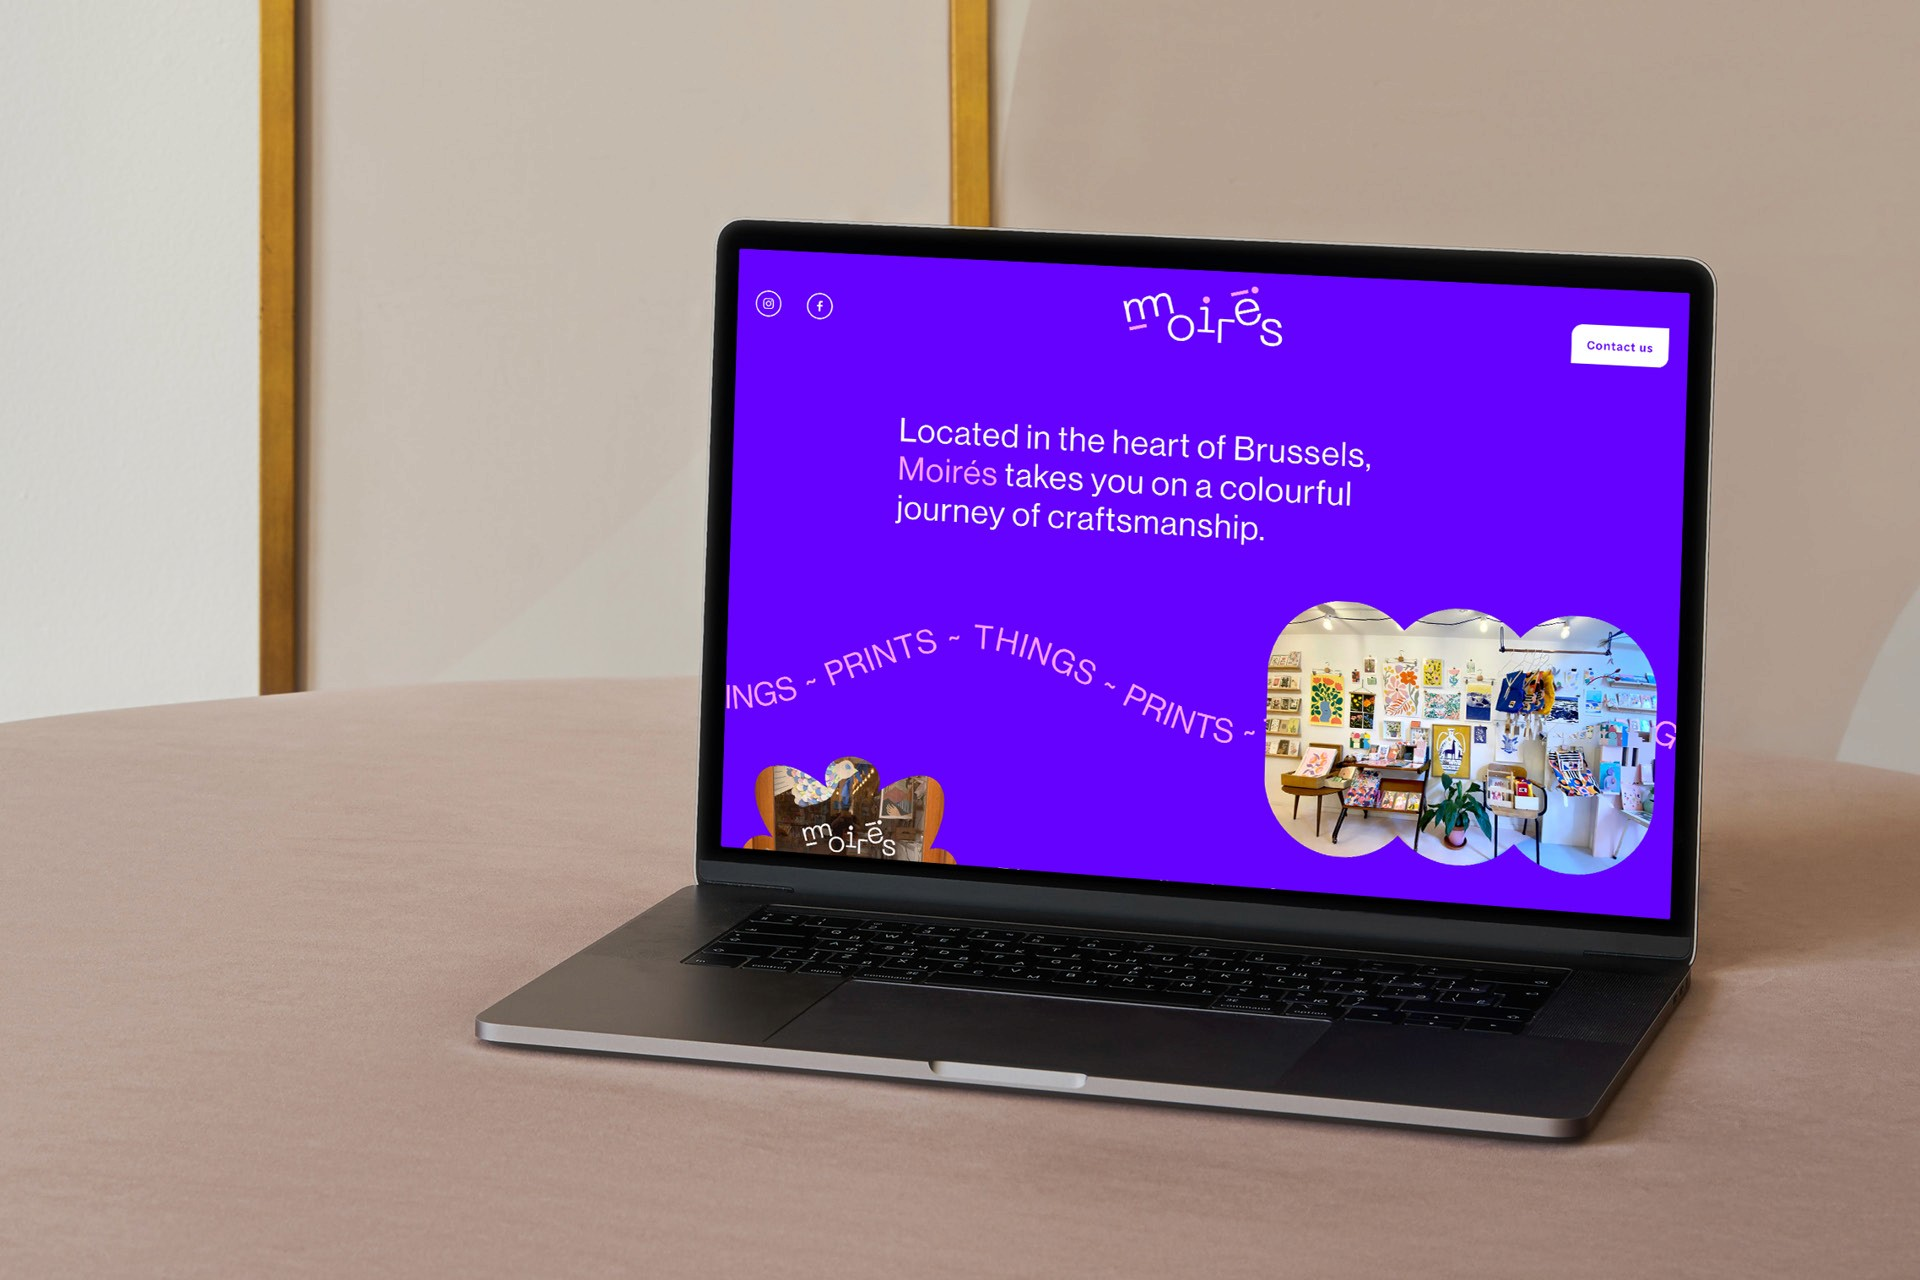
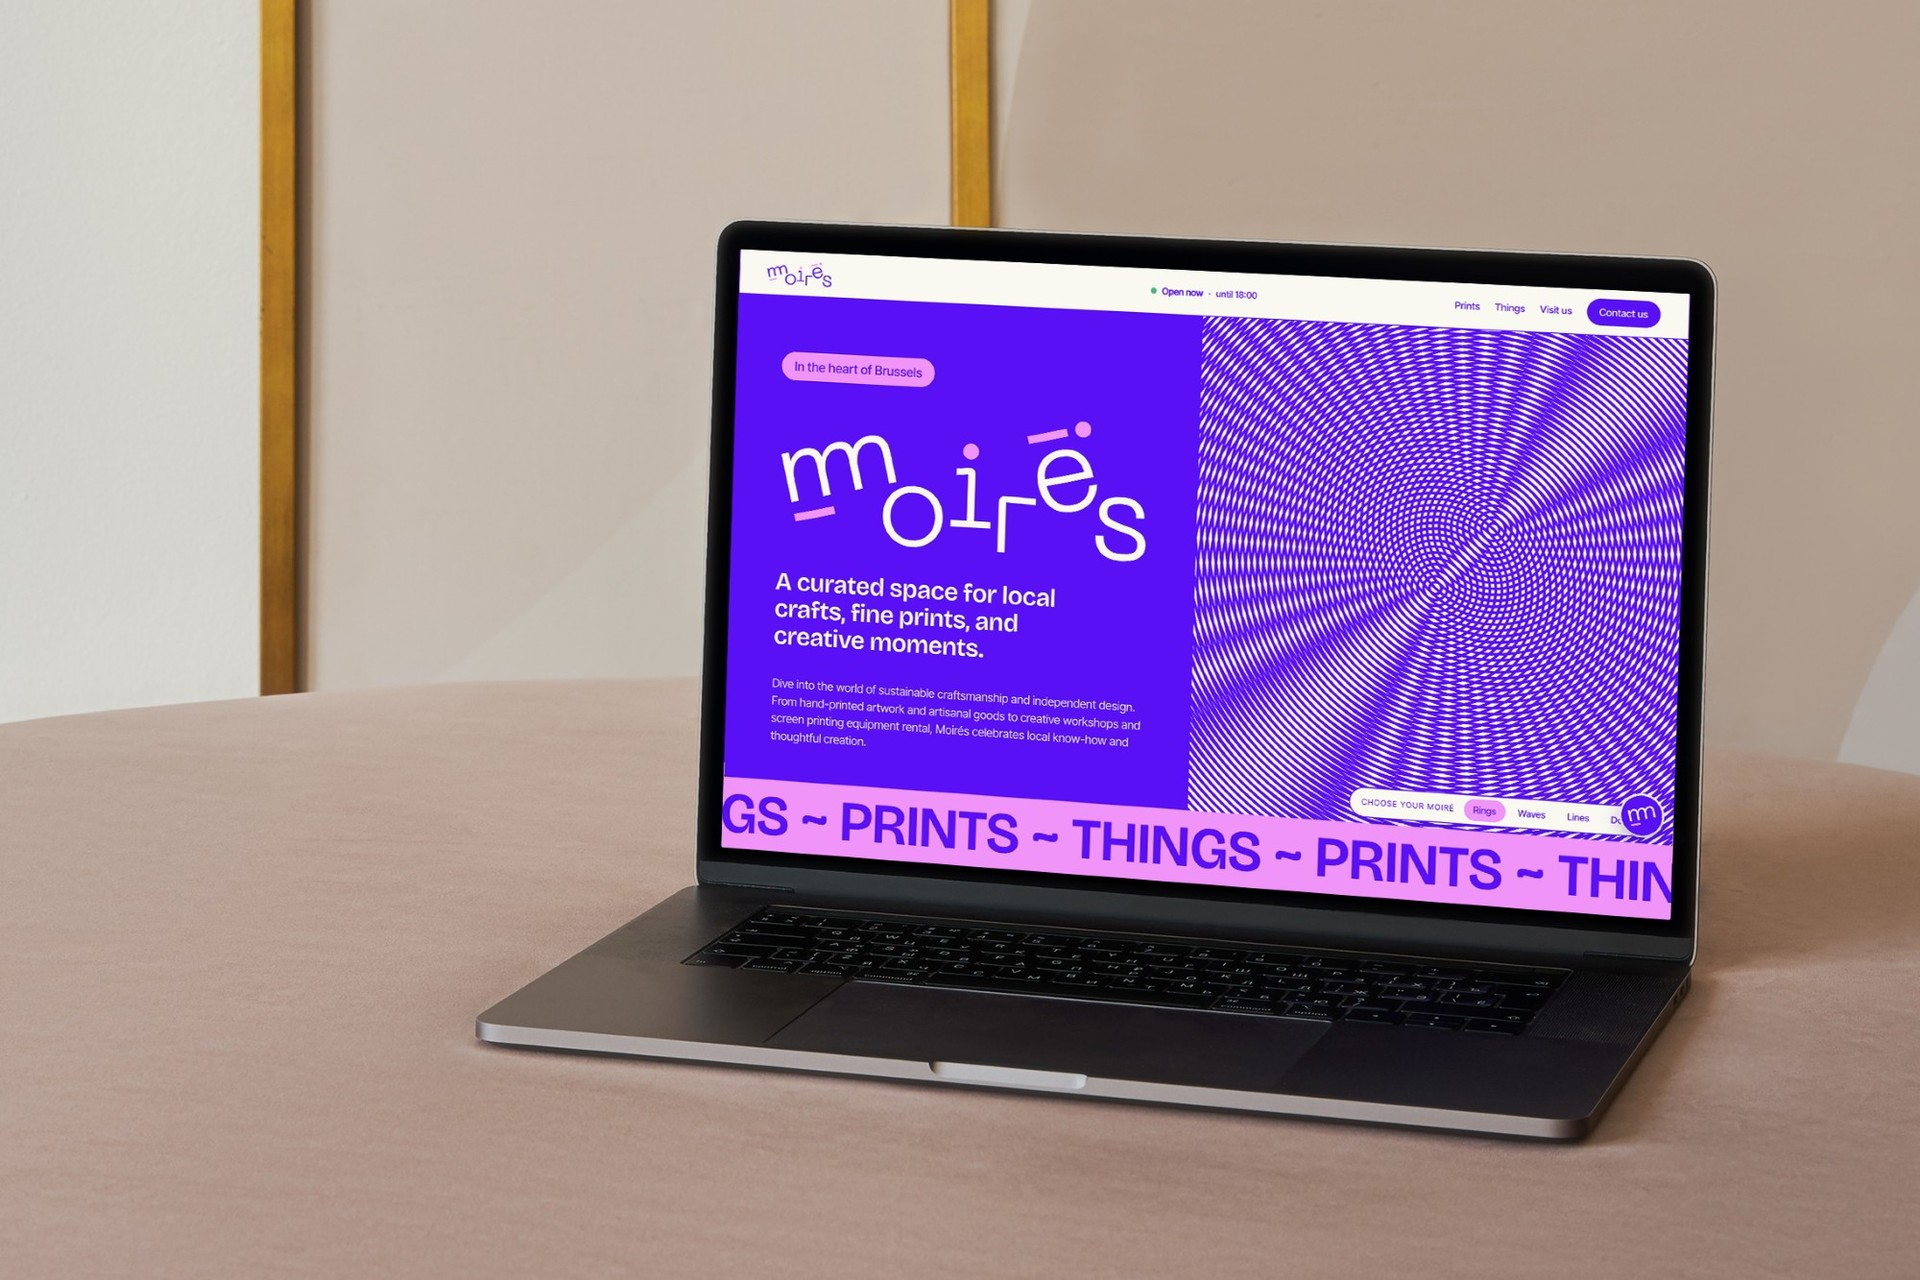
Moirés : le troisième visuel devient la nouvelle page d'accueil sur un portable

Changed region(s): [[0.375, 0.1875, 0.9062, 0.7188], [0.4062, 0.7188, 0.5625, 0.7812], [0.625, 0.7812, 0.6562, 0.8125]]

diff --git a/src/content/projects/moires.md b/src/content/projects/moires.md
@@ -9,7 +9,7 @@ images:
   - src: "/images/moires-2.jpg"
     alt: "A purple gift box patterned with pink dashes and dots, a pink business card resting on its lid."
   - src: "/images/moires-3.jpg"
-    alt: "The Moirés home page on a laptop: white type on a full purple screen, with photographs of the shop cropped into overlapping circles."
+    alt: "The Moirés home page on a laptop: the wordmark in white on violet beside a moiré pattern, over a pink band repeating prints and things."
   - src: "/images/moires-4.jpg"
     alt: "A purple tote bag with pink handles, the Moirés wordmark printed across it in cream."
 link: "https://www.moires.be/"
